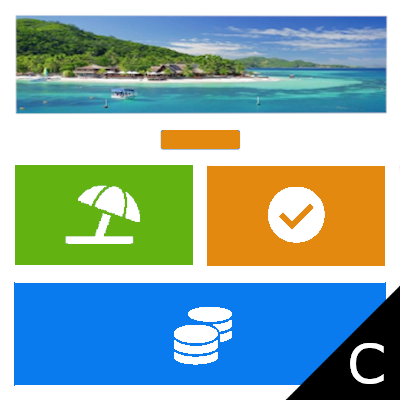
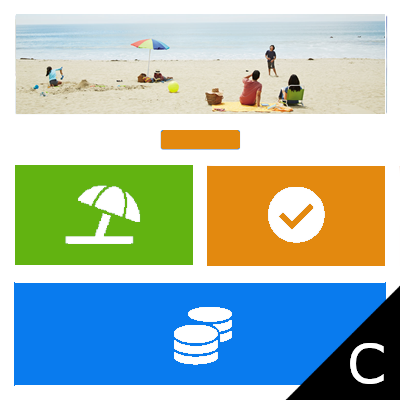
Applied feedback

Changed region(s): [[0.03, 0.03, 0.99, 0.3]]

diff --git a/demos/PersonalizerTravelAgencyDemo/PersonalizerTravelAgencyDemo/wwwroot/js/demo.js b/demos/PersonalizerTravelAgencyDemo/PersonalizerTravelAgencyDemo/wwwroot/js/demo.js
@@ -1,7 +1,7 @@
 let context = {
     device: "mobile",
-    packageAdditionals: null,
-    costs: null,
+    travelerHistory: null,
+    tripType: null,
     userAgent: null
 };
 
@@ -24,14 +24,13 @@ document.addEventListener("DOMContentLoaded", function () {
     const mobileHideBackstageBtn = document.getElementById("mobile-hide-backstage-btn");
     const navbar = document.getElementById('navbar-container');
     const articleContainer = document.getElementById('article-container');
-    const graphContainer = document.getElementById('graph-container');
     const backstage = document.getElementById('collapseBackstage');
     const backstageBtn = document.getElementById("backstage-btn");
     const showActionJsonBtn = document.getElementById("showActionsJson");
     const showActionHtmlBtn = document.getElementById('showActionsHtml');
 
-    const costsOptions = ["allInclusive", "luxuryPackage"];
-    const additionalOptions = ["boatTrip", "dinnerAndBreakfast"];
+    const tripTypeOptions = ["business", "personal"];
+    const travelerHistorylOptions = ["economy", "luxury"];
 
     showActionHtmlBtn.style.display = 'none';
 
@@ -41,8 +40,8 @@ document.addEventListener("DOMContentLoaded", function () {
     const SCREEN_SIZE_BIG = 1;
     const mobileSize = 991;
 
-    context.costs = getRandomOption(costsOptions);
-    context.packageAdditionals = getRandomOption(additionalOptions);
+    context.tripType = getRandomOption(tripTypeOptions);
+    context.travelerHistory = getRandomOption(travelerHistorylOptions);
 
     showActionJsonBtn.addEventListener('click', function () {
         actionDisplayState.selectedView = ACTION_VIEWS.JSON;
@@ -133,14 +132,12 @@ document.addEventListener("DOMContentLoaded", function () {
     function showPageContent() {
         navbar.style.display = 'flex';
         articleContainer.style.display = 'block';
-        graphContainer.style.display = 'flex';
     }
 
     // Makes the page content visible except for the backstage which will remain unchanged
     function hidePageContent() {
         navbar.style.display = 'none';
         articleContainer.style.display = 'none';
-        graphContainer.style.display = 'none';
     }
 
     const articleViewer = document.getElementById("article-viewer");
@@ -158,10 +155,11 @@ document.addEventListener("DOMContentLoaded", function () {
 
         let reward = RewardInitValue;
 
-        function sendRewardHandler(reward) {
+        function sendRewardHandler(reward, saveForLater) {
             clearInterval(gaugeInterval);
             sendReward(personalizerCallResult.eventId, reward);
-            var modalRewardText = articleViewer.contentWindow.document.getElementById("modal-reward");
+            var elementId = saveForLater ? "saveforlater-modal-reward" : "modal-reward";
+            var modalRewardText = articleViewer.contentWindow.document.getElementById(elementId);
             modalRewardText.textContent = Math.round(reward * 10) / 10;
         }
 
@@ -178,15 +176,13 @@ document.addEventListener("DOMContentLoaded", function () {
 
             articleDoc.getElementById("btn-confirm").addEventListener("click", function () { sendRewardHandler(reward); });
             articleDoc.getElementById("link-save-later").addEventListener("click", function () {
-                sendRewardHandler(SaveForLaterReward);
+                sendRewardHandler(SaveForLaterReward, true);
                 updateRewardValue(SaveForLaterReward, articleDoc);
             });
 
             modalButton.addEventListener('click', goToHomeSite);
 
             modalIcon.addEventListener('click', goToHomeSite);
-
-            updateShowGraphbtn(true);
 
             updateRewardValue(reward, articleDoc);
 
@@ -224,9 +220,6 @@ document.addEventListener("DOMContentLoaded", function () {
                 articleViewer.contentWindow.history.back();
             });
         }
-        else {
-            updateShowGraphbtn(false);
-        }
     });
 });
 
@@ -259,13 +252,13 @@ function setupContextControls() {
         }
     });
 
-    const costSelectEle = document.getElementById('costs');
-    costSelectEle.addEventListener('change', (event) => {
+    const tripTypeSelectEle = document.getElementById('tripType');
+    tripTypeSelectEle.addEventListener('change', (event) => {
         updateContext(null, event.target.value, null, false, null);
     });
 
-    const packageSelectEle = document.getElementById('packageAdditionals');
-    packageSelectEle.addEventListener('change', (event) => {
+    const travelerHistorySelectEle = document.getElementById('travelerHistory');
+    travelerHistorySelectEle.addEventListener('change', (event) => {
         updateContext(null, null, event.target.value, false, null);
     });
 
@@ -277,17 +270,17 @@ function setupContextControls() {
     updateContext(deviceSelectEle.value, null, null, false, null);
 }
 
-function updateContext(device, currentCost, currentAdditionals, removeUserAgent, userAgent) {
+function updateContext(device, currentTripType, currentTravelerHistory, removeUserAgent, userAgent) {
     context.device = device || context.device;
-    context.costs = currentCost || context.costs;
-    context.packageAdditionals = currentAdditionals || context.packageAdditionals;
+    context.tripType = currentTripType || context.tripType;
+    context.travelerHistory = currentTravelerHistory || context.travelerHistory;
     context.userAgent = removeUserAgent ? null : userAgent || context.userAgent;
 
     let contextFeatures = [
         {
             device: context.device,
-            costs: context.costs,
-            packageAdditionals: context.packageAdditionals
+            tripType: context.tripType,
+            travelerHistory: context.travelerHistory
         }
     ];
 
@@ -416,8 +409,8 @@ function createActionTab(actionObj, active) {
                           <div class="gr-4 gc-1"><img class="${action.layout.toLowerCase().indexOf('layoutc') > -1 ? 'action-border border-primary rounded' : 'action-border border-white rounded'}" id="layout-c" src="/img/layout-c.png" alt="Layout C" /></div>
                           
                           <div class="gr-1 gc-2">Image</div>
-                          <div class="gr-2 gc-2"><img class="${action.image.fileName.toLowerCase().indexOf('caribbean') > -1 ? 'action-border border-primary rounded' : 'action-border border-white rounded'}" id="beach" src="/img/caribbean-thumbnail.jpg" alt="Beach" /></div>
-                          <div class="gr-3 gc-2"><img class="${action.image.fileName.toLowerCase().indexOf('elephant') > -1 ? 'action-border border-primary rounded' : 'action-border border-white rounded'}" id="pool" src="/img/elephant-thumbnail.jpg" alt="Desert" /></div>
+                          <div class="gr-2 gc-2"><img class="${action.image.fileName.toLowerCase().indexOf('beach') > -1 ? 'action-border border-primary rounded' : 'action-border border-white rounded'}" id="beach" src="/img/beach-thumbnail.jpg" alt="Beach" /></div>
+                          <div class="gr-3 gc-2"><img class="${action.image.fileName.toLowerCase().indexOf('sports') > -1 ? 'action-border border-primary rounded' : 'action-border border-white rounded'}" id="pool" src="/img/sports-thumbnail.jpg" alt="Desert" /></div>
                           
                           <div class="gr-1 gc-3">Tone & Font </div>
                           <div class="gr-2 gc-3"><img class="${action.toneFont.toLowerCase().indexOf('casual') > -1 ? 'action-border border-primary rounded' : 'action-border border-white rounded'}" id="casual" src="/img/casual.jpg" alt="Casual" /></div>
@@ -456,8 +449,8 @@ function getActions() {
 function getRecommendation() {
     const requestContext = {
         device: context.device,
-        costs: context.costs,
-        packageAdditionals: context.packageAdditionals,
+        tripType: context.tripType,
+        travelerHistory: context.travelerHistory,
         useUserAgent: !!context.userAgent
     };
 
@@ -485,19 +478,6 @@ function sendReward(eventid, value) {
             value: value
         })
     });
-}
-
-function updateShowGraphbtn(shouldShow) {
-    let previousClass = "visible";
-    let actualClass = "invisible";
-
-    if (shouldShow) {
-        previousClass = "invisible";
-        actualClass = "visible";
-    }
-
-    document.getElementById("learn-button").classList.replace(previousClass, actualClass);
-    document.getElementById("mobile-learn-button").classList.replace(previousClass, actualClass);
 }
 
 function getRandomOption(options) {

diff --git a/demos/PersonalizerTravelAgencyDemo/PersonalizerTravelAgencyDemo/wwwroot/css/site.css b/demos/PersonalizerTravelAgencyDemo/PersonalizerTravelAgencyDemo/wwwroot/css/site.css
@@ -591,6 +591,7 @@ h3.modal-title {
     background-color: #edeef0;
     padding-bottom: 1rem;
     padding-top: 1rem;
+    color: #6c757d;
 }
 
 .main_slot_card{
@@ -676,4 +677,13 @@ h3.modal-title {
 
 .action-border {
     border: 0.2rem solid;
+}
+
+.checkout-modal .modal-header {
+    background-color: #007bff;
+    color: #fff;
+}
+
+.checkout-modal .close {
+    color: #fff;
 }

diff --git a/demos/PersonalizerTravelAgencyDemo/PersonalizerTravelAgencyDemo/Models/UserContext.cs b/demos/PersonalizerTravelAgencyDemo/PersonalizerTravelAgencyDemo/Models/UserContext.cs
@@ -4,9 +4,9 @@ namespace PersonalizerTravelAgencyDemo.Models
     {
         public bool UseUserAgent { get; set; }
 
-        public string PackageAdditionals { get; set; }
+        public string TripType { get; set; }
 
-        public string Costs { get; set; }
+        public string TravelerHistory { get; set; }
 
         public string Device { get; set; }
     }

diff --git a/demos/PersonalizerTravelAgencyDemo/PersonalizerTravelAgencyDemo/Controllers/Extensions/ControllerExtensions.cs b/demos/PersonalizerTravelAgencyDemo/PersonalizerTravelAgencyDemo/Controllers/Extensions/ControllerExtensions.cs
@@ -11,7 +11,7 @@ namespace PersonalizerTravelAgencyDemo
         {
             var result = new List<object>
             {
-                new {context.Device,context.Costs, context.PackageAdditionals}
+                new {context.Device, context.TripType, context.TravelerHistory}
             };
 
             if (request != null)
